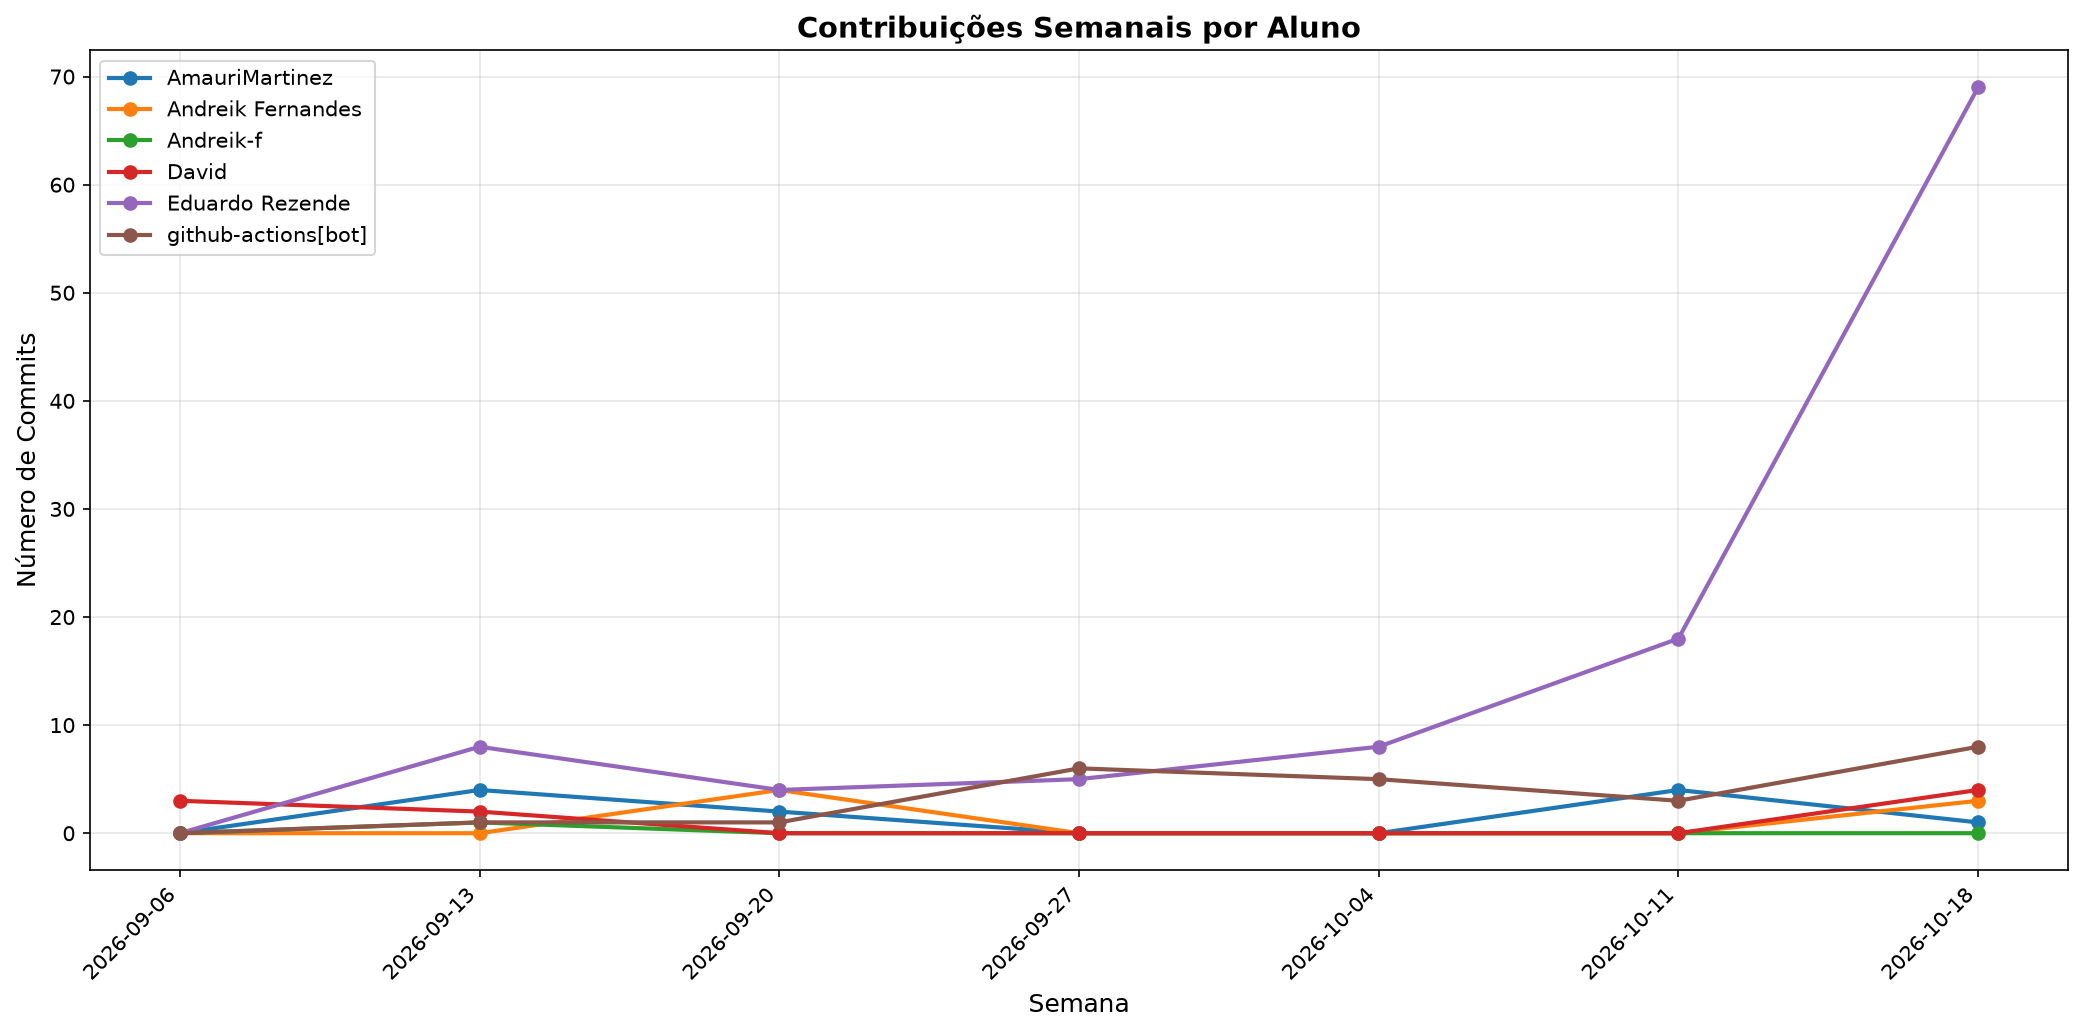
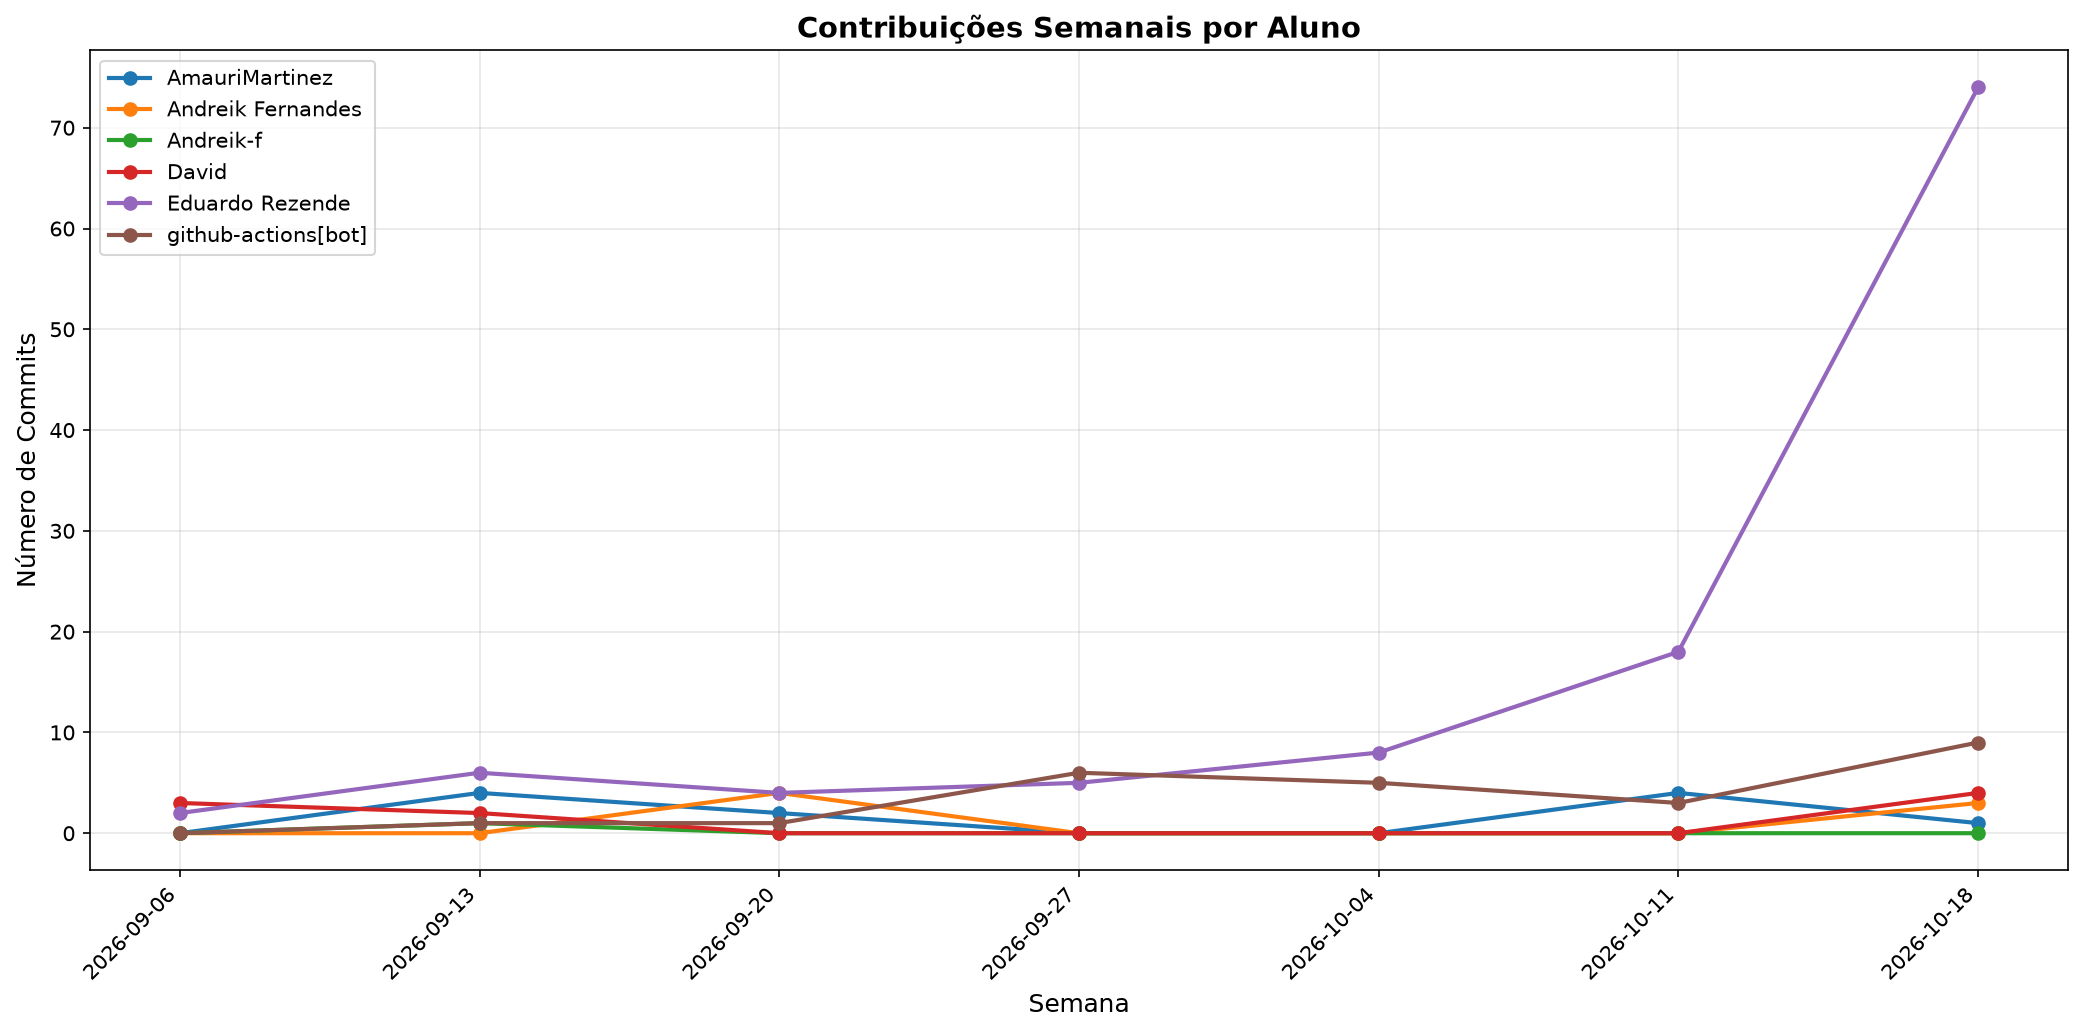
📊 Atualizar relatório de contribuições [skip ci]

diff --git a/documentos/CONTRIBUTION_REPORT.md b/documentos/CONTRIBUTION_REPORT.md
@@ -1,6 +1,6 @@
 # 📊 Relatório de Contribuições do Projeto
 
-**Última atualização:** 25/10/2026 03:26
+**Última atualização:** 25/10/2026 17:47
 
 ---
 
@@ -12,13 +12,13 @@
 | Andreik Fernandes   |         7 |      2292 |        45 |         34 |              0 |               0 |
 | Andreik-f           |         1 |        30 |         0 |          2 |              0 |               0 |
 | David               |         9 |      1136 |       215 |         24 |              4 |               1 |
-| Eduardo Rezende     |       112 |    139802 |     43999 |        494 |              4 |               1 |
-| github-actions[bot] |        24 |       220 |       160 |          3 |             24 |               1 |
+| Eduardo Rezende     |       117 |    140496 |     44153 |        496 |              4 |               1 |
+| github-actions[bot] |        25 |       224 |       164 |          3 |             25 |               1 |
 
 
 ## 📅 Contribuições Semanais (Todo o Semestre)
 
-**2026-10-18**: AmauriMartinez: 1, Andreik Fernandes: 3, David: 4, Eduardo Rezende: 69, github-actions[bot]: 8
+**2026-10-18**: AmauriMartinez: 1, Andreik Fernandes: 3, David: 4, Eduardo Rezende: 74, github-actions[bot]: 9
 
 **2026-10-11**: AmauriMartinez: 4, Eduardo Rezende: 18, github-actions[bot]: 3
 
@@ -28,9 +28,9 @@
 
 **2026-09-20**: AmauriMartinez: 2, Andreik Fernandes: 4, Eduardo Rezende: 4, github-actions[bot]: 1
 
-**2026-09-13**: AmauriMartinez: 4, Andreik-f: 1, David: 2, Eduardo Rezende: 8, github-actions[bot]: 1
+**2026-09-13**: AmauriMartinez: 4, Andreik-f: 1, David: 2, Eduardo Rezende: 6, github-actions[bot]: 1
 
-**2026-09-06**: David: 3
+**2026-09-06**: David: 3, Eduardo Rezende: 2
 
 
 
